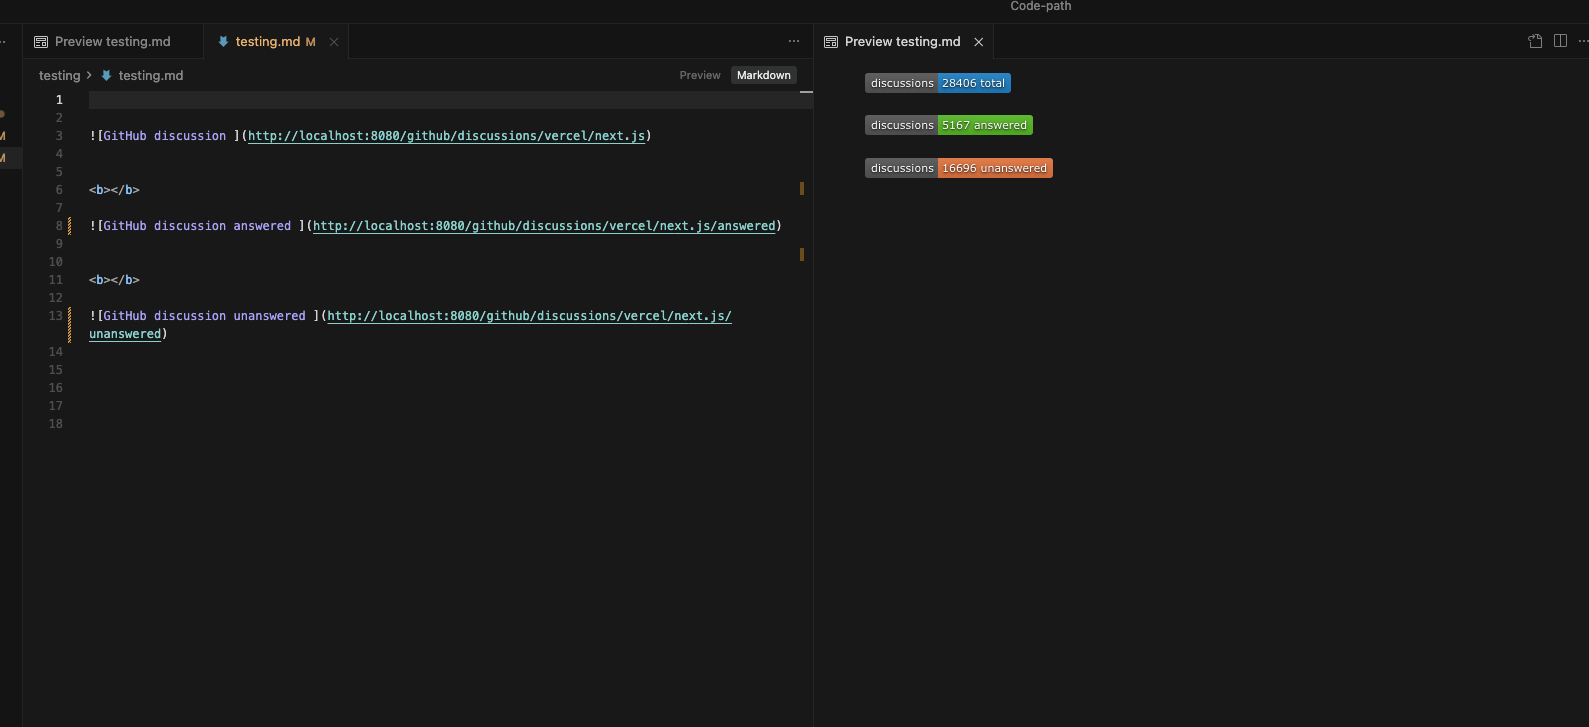
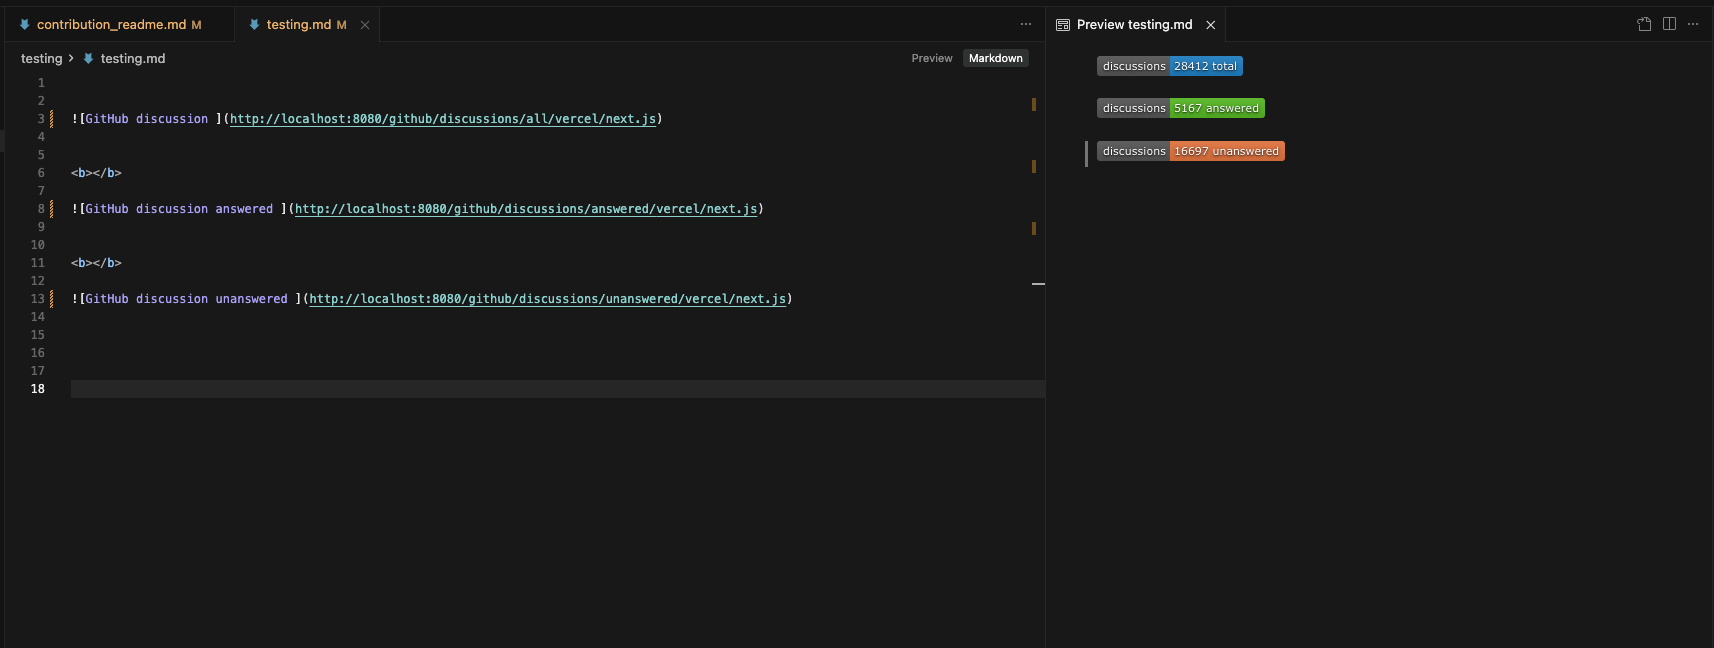
Enhance contribution_readme.md with detailed descriptions of the new answered and unanswered variants for the GitHub Discussions badge. Update testing.md to reflect the correct badge URLs for these variants, ensuring clarity for users. Update results.png to reflect the latest badge designs.

diff --git a/contribution_readme.md b/contribution_readme.md
@@ -18,11 +18,17 @@ Having used shield.io in the past to make my github profile page colorful and my
 
 ### Problem Description
 
-The solution i will be providing is more of feature enhancement rather than issue, it focuses on adding the answered/unanswered filter variants of the discussions badge to the already existing badges 
+Issue [#6047](https://github.com/badges/shields/issues/6047) is a feature enhancement for shields.io's existing GitHub Discussions badge. Users can already display the total number of discussions for a repository, but there is no way to show how many of those discussions have been answered or are still unanswered. Since GitHub's API now supports filtering discussions by answered status, shields.io should expose those counts as badge variants so README authors and profile pages can surface more useful discussion metrics without building custom integrations.
 
 ### Expected Behavior
 
-Two more discussions badge providing information on answered and unanswered  variants
+The existing GitHub Discussions badge should be extended with two path variants on the same endpoint:
+
+- **Total (existing):** `/github/discussions/:user/:repo` — returns the total discussion count (e.g. `28406 total`)
+- **Answered:** `/github/discussions/:user/:repo/answered` — returns only answered discussions (e.g. `5167 answered`)
+- **Unanswered:** `/github/discussions/:user/:repo/unanswered` — returns only unanswered discussions (e.g. `16696 unanswered`)
+
+Each variant should render as a distinct badge (label + count + colour), follow the same service/tester patterns as other GitHub badges in the project, include unit tests for URL construction, transform, and render logic, and be documented in the frontend so users can discover and copy the new badge URLs. The original total badge must continue to work unchanged.
 
 ### Current Behavior
 
@@ -109,6 +115,9 @@ commit message conventions before opening PR.
 - [x] Test Case 7: Invalid or missing repository — returns an appropriate error/inaccessible badge when the repo does not exist
 - [x] Test Case 8: Repository with no discussions — handles a valid repo that returns zero discussions without breaking render logic
 - [x] Test Case 9: Total variant render — badge label shows `total` and existing render behaviour is preserved for the default path
+
+
+![test](images/test.png)
 
 All 9 cases run with `npm run test:services -- --only=GithubDiscussions` — no live GitHub token required; the service tester mocks API responses for URL construction, transform, and render checks.
 

diff --git a/testing/testing.md b/testing/testing.md
@@ -1,16 +1,16 @@
 
 
-![GitHub discussion ](http://localhost:8080/github/discussions/vercel/next.js)
+![GitHub discussion ](http://localhost:8080/github/discussions/all/vercel/next.js)
 
 
 <b></b>
 
-![GitHub discussion answered ](http://localhost:8080/github/discussions/vercel/next.js/answered)
+![GitHub discussion answered ](http://localhost:8080/github/discussions/answered/vercel/next.js)
 
 
 <b></b>
 
-![GitHub discussion unanswered ](http://localhost:8080/github/discussions/vercel/next.js/unanswered)
+![GitHub discussion unanswered ](http://localhost:8080/github/discussions/unanswered/vercel/next.js)
 
 
 
